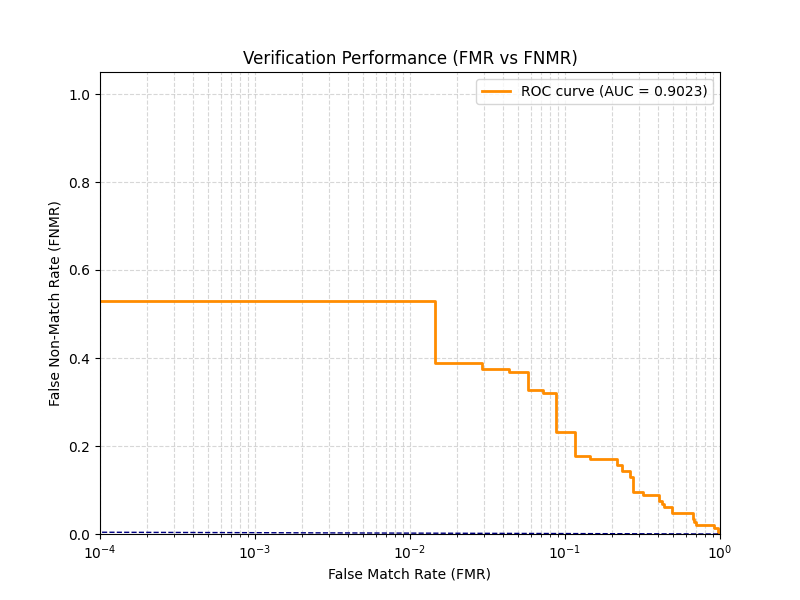
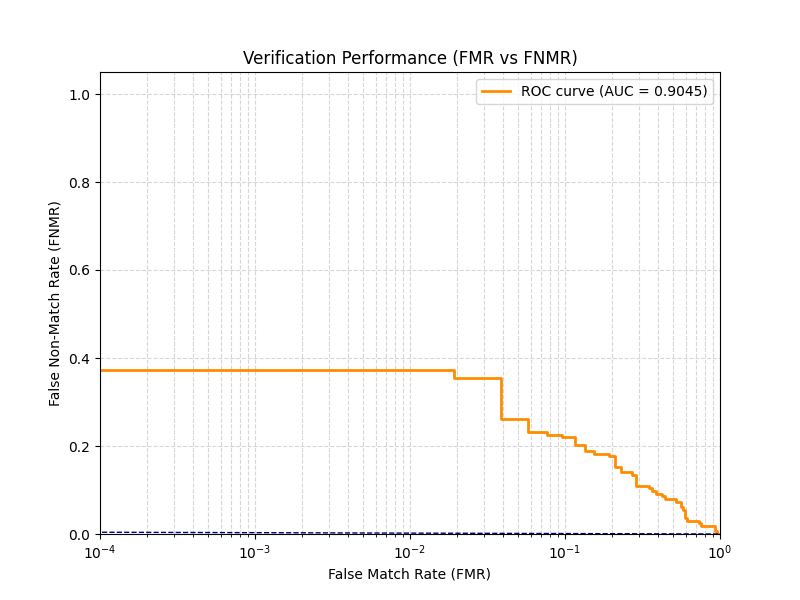
baseline: stable filter with frequency and delta-y separation/75.93 CRR

diff --git a/src/FeatureExtraction.py b/src/FeatureExtraction.py
@@ -21,8 +21,8 @@ def _create_spatial_filter(size: int, delta_x: float, delta_y: float, freq: floa
 def extract_features(enhanced_img: np.ndarray, config=None) -> np.ndarray:
     roi = enhanced_img[0:48, :]
 
-    filter_1 = _create_spatial_filter(15, 3.0, 1.5, 1/8.0)
-    filter_2 = _create_spatial_filter(15, 4.5, 1.5, 1/5.0)
+    filter_1 = _create_spatial_filter(15, 3.0, 1.2, 1/10.0)
+    filter_2 = _create_spatial_filter(15, 4.5, 1.8, 1/5.5)
 
     f1 = cv2.filter2D(roi, cv2.CV_32F, filter_1)
     f2 = cv2.filter2D(roi, cv2.CV_32F, filter_2)
